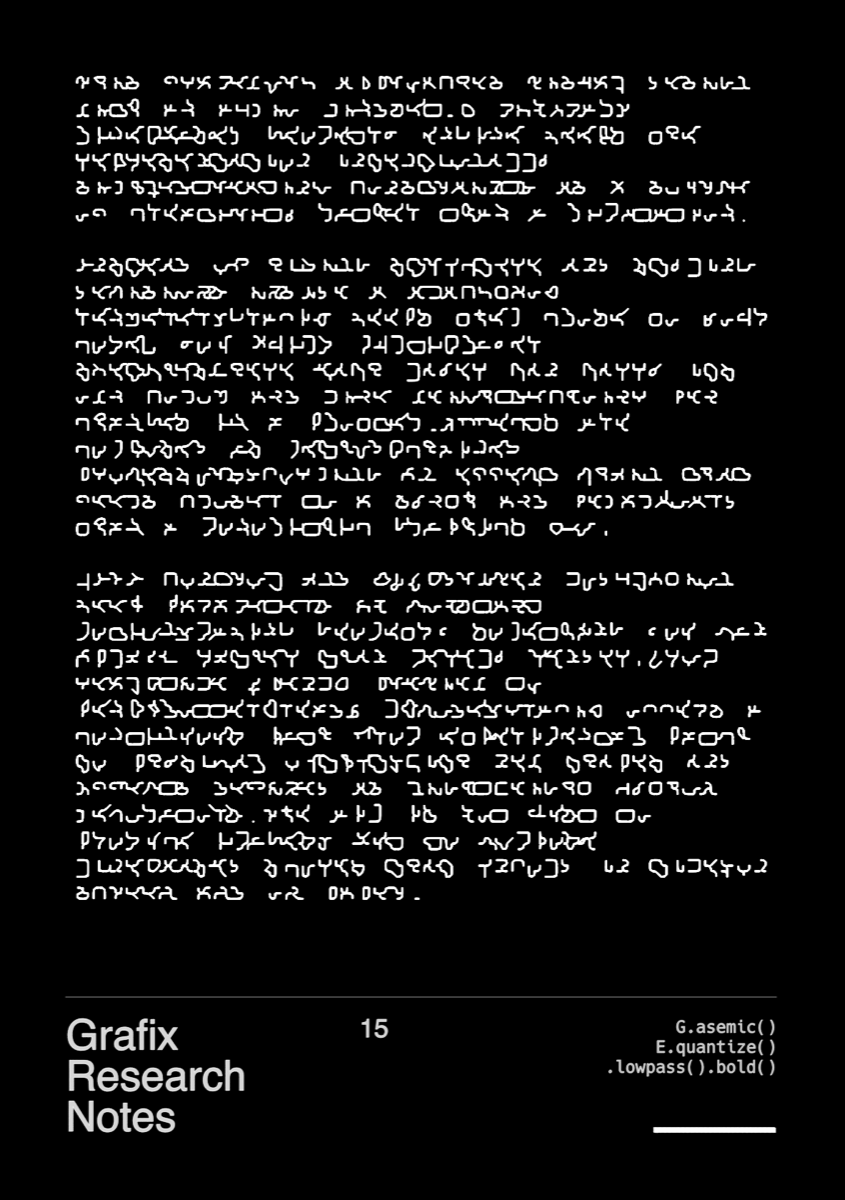
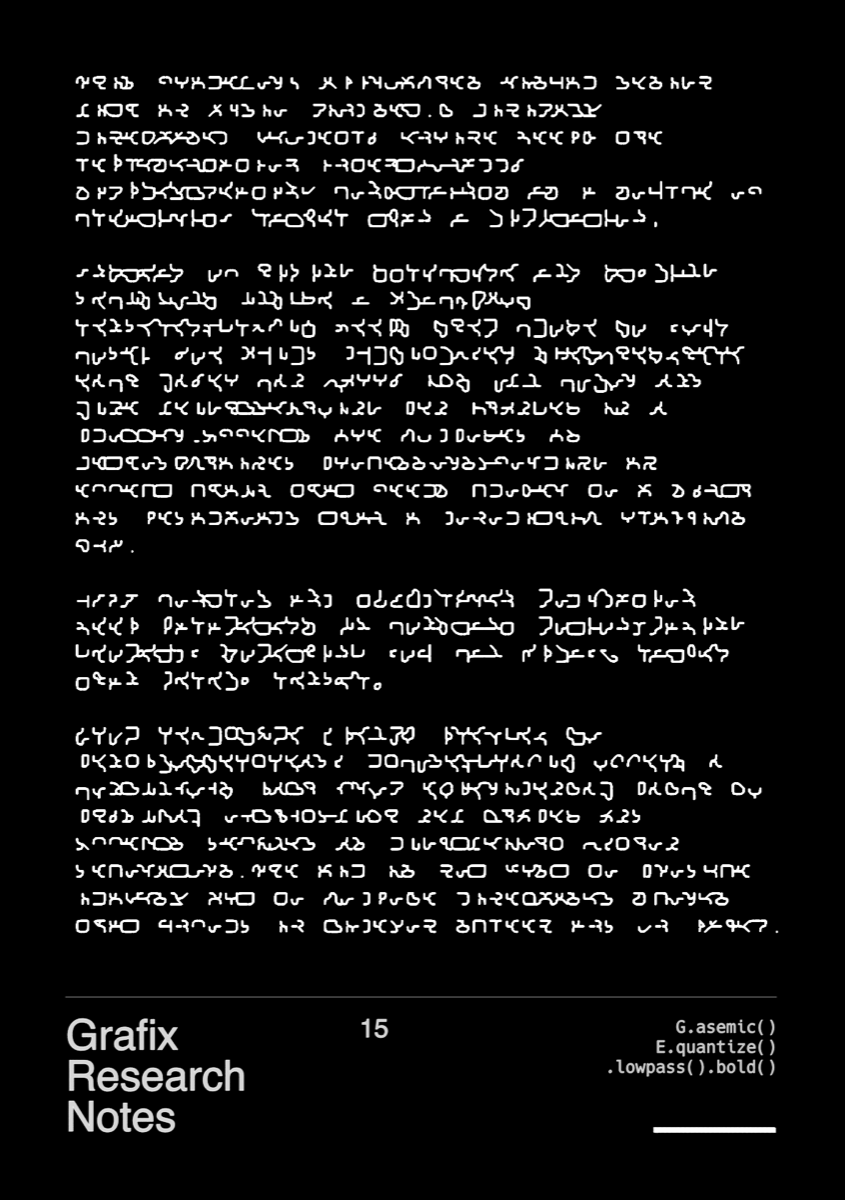
📝

Changed region(s): [[0.0923, 0.0617, 0.9231, 0.8017]]

diff --git a/sketch/readme/grn/15.py b/sketch/readme/grn/15.py
@@ -1,0 +1,86 @@
+from pathlib import Path
+
+from grafix import E, G, P, run
+
+# A5
+CANVAS_WIDTH = 148
+CANVAS_HEIGHT = 210
+DESCRIPTION = """This framework approaches visual design with an audio mindset.A minimal, line-based geometry engine keeps the representation intentionally simple,treating constraints as a source of creativity rather than a limitation.
+
+Instead of hiding structure and styling decisions inside a black-box renderer,grafix keeps them close to your code: you build multi-layer sketcheswhere each layer can carry its own color and line weight,echoing pen changes in a plotter.Effects are composed as method-chained processors,forming an effect chain that feels closer to a synth and pedalboard than a monolithic graphics API.
+
+MIDI control and LFO-driven modulation keep parameters in constant motion,making geometry something you can “play” rather than merely render.From real-time OpenGL preview to pen-plotter-ready G-code,grafix offers a continuous path from experimental patch to physical output,with new Shapes and Effects defined as lightweight Python decorators.The aim is not just to produce images, but to compose line-based scores that unfold in time,on screen and on paper."""
+
+
+def draw(t):
+    frame = P.grn_a5_frame(
+        activate=True,
+        show_layout=False,
+        layout_color_rgb255=(191, 191, 191),
+        number_text="15",
+        explanation_text="G.asemic()\nE.quantize()\n.lowpass().bold()",
+        explanation_density=500.0,
+        template_color_rgb255=(255, 255, 255),
+    )
+
+    g = G.asemic(
+        activate=True,
+        text="This framework approaches visual design with an audio mindset.A minimal, line-based geometry engine keeps the representation intentionally simple,treating constraints as a source of creativity rather than a limitation.\n\nInstead of hiding structure and styling decisions inside a black-box renderer,grafix keeps them close to your code: you build multi-layer sketcheswhere each layer can carry its own color and line weight,echoing pen changes in a plotter.Effects are composed as method-chained processors,forming an effect chain that feels closer to a synth and pedalboard than a monolithic graphics API.\n\nMIDI control and LFO-driven modulation keep parameters in constant motion,making geometry something you can “play” rather than merely render.\n\nFrom real-time OpenGL preview to pen-plotter-ready G-code,grafix offers a continuous path from experimental patch to physical output,with new Shapes and Effects defined as lightweight Python decorators.The aim is not just to produce images, but to compose line-based scores that unfold in time,on screen and on paper.",
+        seed=214776,
+        n_nodes=5,
+        candidates=4,
+        stroke_min=3,
+        stroke_max=6,
+        walk_min_steps=2,
+        walk_max_steps=5,
+        stroke_style="bezier",
+        bezier_samples=12,
+        bezier_tension=0.366,
+        text_align="left",
+        glyph_advance_em=1.155,
+        space_advance_em=1.371,
+        letter_spacing_em=-0.078,
+        line_height=1.828,
+        use_bounding_box=True,
+        box_width=125.258,
+        box_height=-1.0,
+        show_bounding_box=False,
+        center=(13.187, 13.187, 0.0),
+        scale=2.603,
+    )
+
+    e = (
+        E.quantize(
+            activate=True,
+            step=(0.965, 0.965, 0.965),
+        )
+        .lowpass(
+            activate=True,
+            step=0.619,
+            sigma=0.328,
+            closed="open",
+        )
+        .bold(
+            activate=True,
+            count=100,
+            radius=0.134,
+            seed=0,
+        )
+    )
+
+    g = e(g)
+    return frame, g
+
+
+if __name__ == "__main__":
+    run(
+        draw,
+        background_color=(0.0, 0.0, 0.0),
+        line_thickness=0.001,
+        line_color=(1.0, 1.0, 1.0),
+        render_scale=5,
+        canvas_size=(CANVAS_WIDTH, CANVAS_HEIGHT),
+        parameter_gui=True,
+        midi_port_name="Grid",
+        midi_mode="14bit",
+    )
